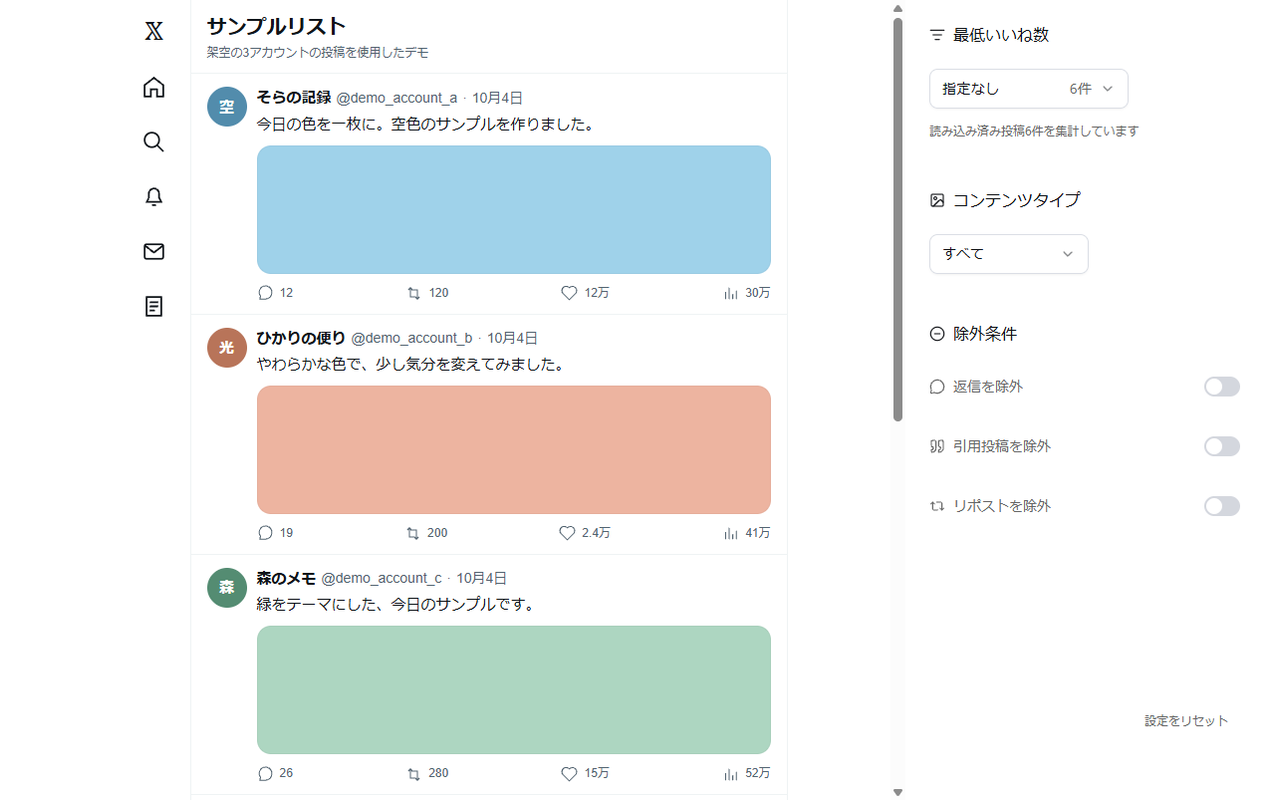
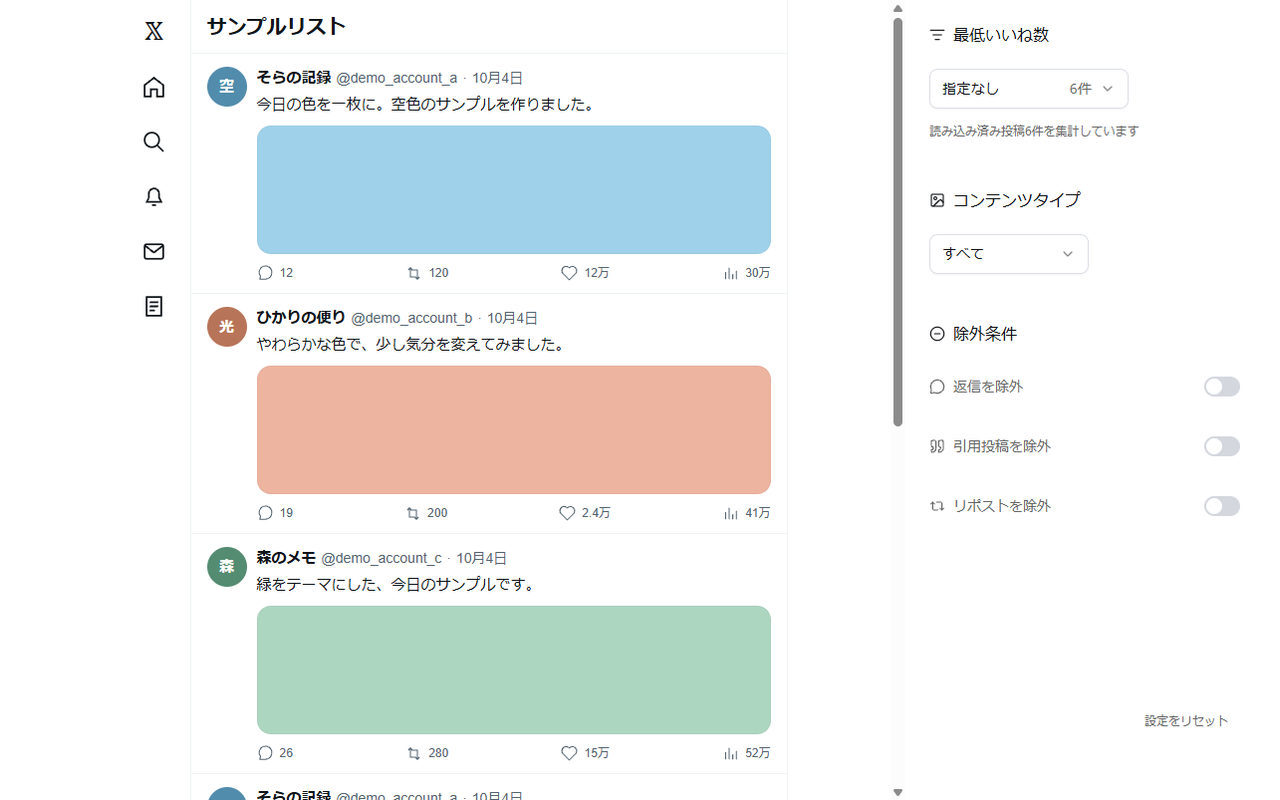
掲載画像から架空投稿の注記を削除

diff --git a/store-assets/screenshots/demo-x.html b/store-assets/screenshots/demo-x.html
@@ -14,7 +14,6 @@
       main { min-inline-size: 0; border-inline: 1px solid #eff3f4; }
       header { padding: 13px 16px 11px; border-block-end: 1px solid #eff3f4; }
       h1 { margin: 0; font-size: 20px; }
-      header p { margin: 3px 0 0; color: #536471; font-size: 12px; }
       article { display: grid; grid-template-columns: 40px minmax(0, 1fr); gap: 10px; padding: 13px 16px 11px; border-block-end: 1px solid #eff3f4; }
       .avatar { inline-size: 40px; block-size: 40px; border-radius: 50%; display: grid; place-items: center; color: #fff; font-weight: bold; }
       .post { min-inline-size: 0; }
@@ -43,7 +42,6 @@
       <main data-testid="primaryColumn">
         <header>
           <h1>サンプルリスト</h1>
-          <p>架空の3アカウントの投稿を使用したデモ</p>
         </header>
         <section aria-label="架空の投稿一覧" id="posts"></section>
       </main>

diff --git a/store-assets/screenshots/README.md b/store-assets/screenshots/README.md
@@ -9,7 +9,7 @@
 
 ## X の架空投稿デモ
 
-2026年10月4日に、[掲載画像用 HTML](demo-x.html) と実際の Sift 操作欄を、ウィンドウを表示しない開発用 Chrome で撮影した。3つの架空アカウントに各2投稿を用意し、投稿画像は6色の単色塗りつぶしにした。名前、本文、反応数は作成したサンプルであり、画面にも架空投稿のデモと表示している。
+2026年10月4日に、[掲載画像用 HTML](demo-x.html) と実際の Sift 操作欄を、ウィンドウを表示しない開発用 Chrome で撮影した。3つの架空アカウントに各2投稿を用意し、投稿画像は6色の単色塗りつぶしにした。名前、本文、反応数は作成したサンプルである。
 
 絞り込みには実際の拡張機能を使った。指定なしでは6件、最低いいね数10万では12万・15万・11万の3件が残る。画面内には前後とも複数アカウントの投稿を収めている。この画像は操作の説明用であり、実際の X サイトとの互換性を示す実機検証には使わない。
 

diff --git a/CHROMEWEBSTORE.md b/CHROMEWEBSTORE.md
@@ -115,4 +115,4 @@ Open a supported list page, click the Sift icon in Chrome's toolbar, and adjust 
 
 ## 掲載画像（2026年10月4日）
 
-[掲載画像の記録](store-assets/screenshots/README.md)に、絞り込み前後の日本語画像4枚と撮影条件をまとめた。X は3つの架空アカウントの複数投稿を使い、投稿画像を色違いの単色にした。画面にも架空投稿のデモと表示する。絞り込みと操作欄は実際の Sift を使う。このデモ画像は実サイトの互換性検証として扱わない。
+[掲載画像の記録](store-assets/screenshots/README.md)に、絞り込み前後の日本語画像4枚と撮影条件をまとめた。X は3つの架空アカウントの複数投稿を使い、投稿画像を色違いの単色にした。絞り込みと操作欄は実際の Sift を使う。このデモ画像は実サイトの互換性検証として扱わない。
